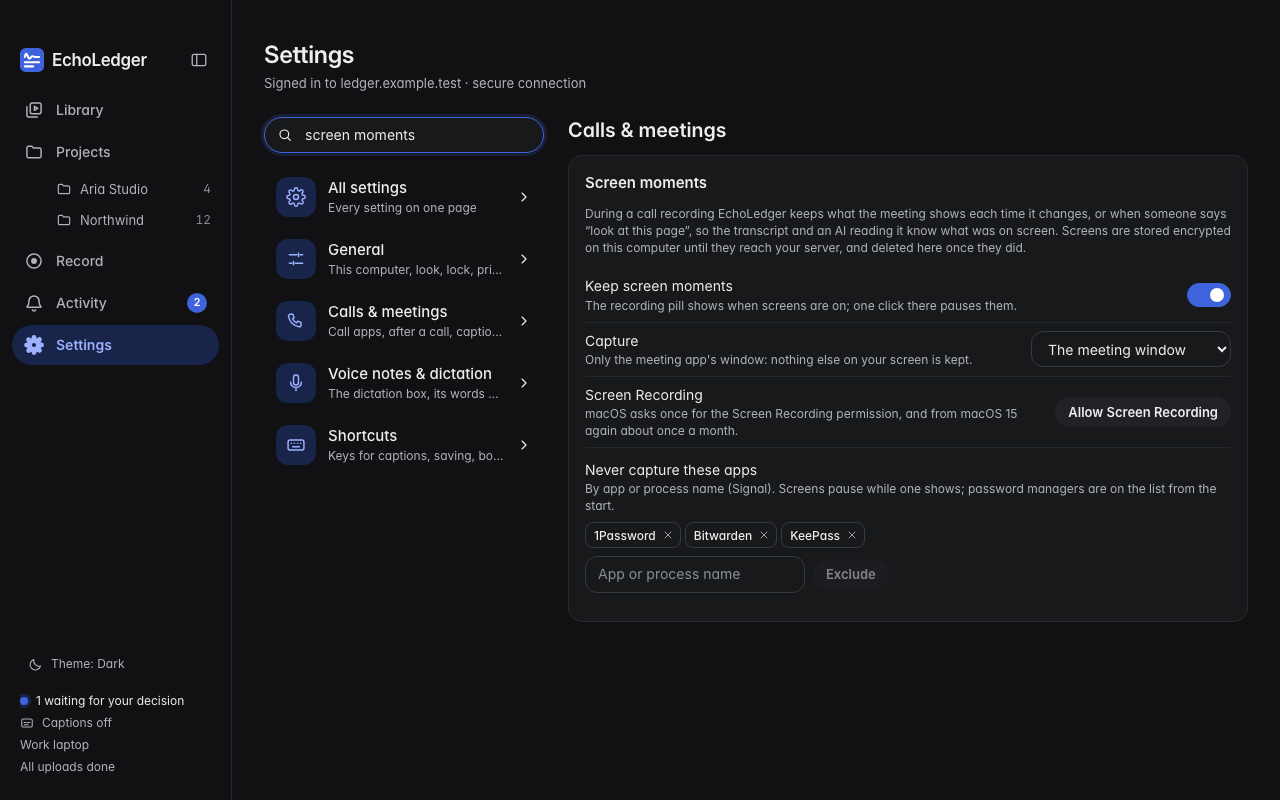
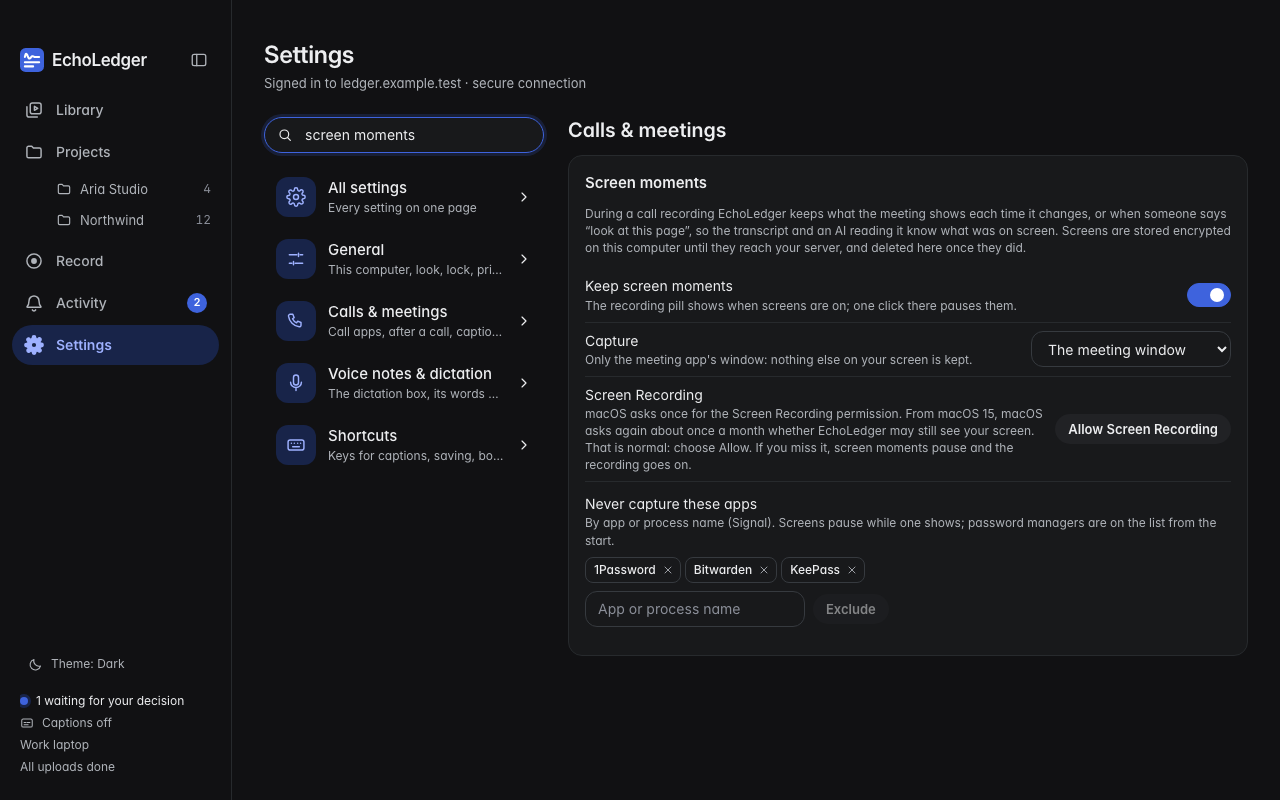
Mac first launch through Open Anyway, permissions forgotten after an update said once, what the Developer ID fixes, the Mac and Windows checks only real hardware can prove, and the new screens in light and dark

Changed region(s): [[0.4375, 0.5, 0.9375, 0.7812], [0.8438, 0.5, 0.9688, 0.5625]]

diff --git a/desktop/scripts/screens/main.tsx b/desktop/scripts/screens/main.tsx
@@ -3,7 +3,10 @@
 // request-files|record|record-bluetooth|record-viewer|activity|settings|settings-account|sign-in|controls|controls-bluetooth
 // &theme=light|dark` (v1.5: "-bluetooth" records from AirPods, "library-backup" opens the backup-engine call; projects,
 // shared, share, move and request-files open on the Projects page or the Library, where scripts/screenshots.mjs clicks its
-// way to the dialog; "sign-in" is a computer not signed in, "-viewer" a viewer's, "library-update" an update ready).
+// way to the dialog; "sign-in" is a computer not signed in, "-viewer" a viewer's, "library-update" an update ready. Phase 1B:
+// "-mac" is a Mac, "-windows10" a Windows without per-app capture, "onboarding-mac" the guided permissions,
+// "record-permission-mac" a permission off, "library-lost-mac" a permission macOS forgot, "settings-mac-check" the check's
+// results, "controls-permission" and "controls-device" what the pill says).
 import React from "react";
 import ReactDOM from "react-dom/client";
 import { clearMocks, mockIPC, mockWindows } from "@tauri-apps/api/mocks";
@@ -38,11 +41,15 @@ const audioUrl = silentWav();
 
 const empty = screen === "library-empty";
 const bluetooth = screen.endsWith("-bluetooth");
+const mac = screen.includes("-mac");
+const windows10 = screen.endsWith("-windows10");
+const onboarding = screen === "onboarding-mac";
+const NO_SYSTEM_AUDIO = { kind: "system_audio", sentence: "System audio is off for EchoLedger: a recording will have your voice, not the other side of the call." };
 // v1.5: projects, the Library's smart folders, sharing and moving open from the Library or the Projects page.
 const LIBRARY_SCREENS = ["shared", "share", "move"];
 const tab = screen.startsWith("library") || LIBRARY_SCREENS.includes(screen) ? "library"
   : screen.startsWith("client") || screen.startsWith("project") || screen === "request-files" ? "projects"
-    : screen.startsWith("record") ? "record" : screen.startsWith("settings") ? "settings" : screen;
+    : screen.startsWith("record") ? "record" : screen.startsWith("settings") ? "settings" : onboarding ? "library" : screen;
 // v1.5: the plan with limits next to the usage; a viewer on "-viewer".
 const plan = makePlan({
   name: "Team", workspace: "Acme team", role: screen.endsWith("-viewer") ? "viewer" : "owner",
@@ -56,13 +63,21 @@ type Args = Record<string, unknown>;
 let captions: { onmessage: (e: unknown) => void } | null = null;
 
 const commands: Record<string, (args: Args) => unknown> = {
-  app_status: () => makeStatus({ deviceName: "Work laptop", pendingDecisions: empty ? 0 : PENDING.length, captionsLive: controls, plan, paired: screen !== "sign-in" }),
+  app_status: () => makeStatus({
+    deviceName: "Work laptop",
+    pendingDecisions: empty ? 0 : PENDING.length,
+    captionsLive: controls,
+    plan,
+    paired: screen !== "sign-in",
+    platform: mac ? "macos" : "windows",
+    systemAudioNote: windows10 ? "This Windows version records all sound playing on this computer, not just the call" : null,
+  }),
   account_get: () => ACCOUNT,
   update_status: () =>
     screen === "library-update"
       ? { phase: "ready", current: "1.5.0", version: "1.5.1", notes: "Faster sign-in and the account page.", checkedAt: new Date().toISOString(), message: null, progress: null }
       : { phase: "up_to_date", current: "1.5.0", version: null, notes: null, checkedAt: new Date(Date.now() - 3 * 3_600_000).toISOString(), message: "You have the latest version.", progress: null },
-  get_settings: () => makeSettings({ deviceName: "Work laptop", consentAcknowledged: true }),
+  get_settings: () => makeSettings({ deviceName: "Work laptop", consentAcknowledged: true, onboardingDone: !onboarding }),
   main_view_get: () => JSON.stringify({ tab, recordingId: empty || tab !== "library" ? null : opened, scroll: {} }),
   lock_status: () => ({ enabled: false, locked: false, hasPin: false, osMethod: null, retryAfterSeconds: 0 }),
   library_list: () => (empty ? [] : ITEMS),
@@ -93,12 +108,50 @@ const commands: Record<string, (args: Args) => unknown> = {
     { id: "default", name: "Microphone (Realtek Audio)", isDefault: !bluetooth, bluetooth: false },
     ...(bluetooth ? [{ id: "airpods", name: "AirPods Pro", isDefault: true, bluetooth: true }] : []),
   ],
-  permissions_status: () => ({ microphone: "allowed", browserAutomation: false, platform: "windows" }),
+  permissions_status: () => (mac
+    ? {
+        microphone: onboarding ? "unknown" : "allowed",
+        systemAudio: screen === "record-permission-mac" || onboarding ? "denied" : "allowed",
+        screen: onboarding ? "denied" : "allowed",
+        browserAutomation: false,
+        platform: "macos",
+        missing: screen === "record-permission-mac" ? [NO_SYSTEM_AUDIO] : [],
+        lost: screen === "library-lost-mac" ? "macOS no longer lets EchoLedger use the microphone, which can happen after an update. Setting it up again takes a moment." : null,
+      }
+    : { microphone: "allowed", browserAutomation: false, platform: "windows", missing: [] }),
+  mac_check_last: () => screen === "settings-mac-check"
+    ? {
+        finishedAt: new Date().toISOString(),
+        stopped: null,
+        appVersion: "1.5.0",
+        osVersion: "15.1",
+        model: "Mac14,2",
+        sentAt: new Date(Date.now() - 120_000).toISOString(),
+        items: [
+          { key: "macos_version", title: "macOS version", state: "ok", detail: "macOS 15.1: call audio works on this version.", fix: null },
+          { key: "microphone_permission", title: "Microphone permission", state: "ok", detail: "Allowed.", fix: null },
+          { key: "system_audio_permission", title: "System audio permission", state: "off", detail: "Off. Without it a recording has your voice, not the other side of the call.", fix: { label: "Open System Settings", settings: "system_audio" } },
+          { key: "screen_permission", title: "Screen Recording permission", state: "ok", detail: "Allowed. macOS asks again about once a month: choose Allow to keep screen moments.", fix: null },
+          { key: "microphone_test", title: "Microphone test", state: "ok", detail: "Heard your microphone (loudest about -28 dB).", fix: null },
+          { key: "system_audio_test", title: "System audio test", state: "off", detail: "Not tested: system audio is off for EchoLedger.", fix: { label: "Open System Settings", settings: "system_audio" } },
+          { key: "meeting_apps", title: "Meeting apps", state: "ok", detail: "Installed: Zoom, Chrome, Safari. Not installed: Teams, WhatsApp, Edge, Arc. EchoLedger recognises all of them.", fix: null },
+          { key: "overlay_windows", title: "Captions and pill on screen", state: "ok", detail: "The captions and the pill are on screen, above other windows, in every Space and over full-screen meetings.", fix: null },
+          { key: "screen_capture_test", title: "Screen moment test", state: "ok", detail: "One frame captured and thrown away. Nothing was stored.", fix: null },
+        ],
+      }
+    : null,
   security_overview: () => ({ devices: [{ id: "d1", name: "Work laptop", platform: "windows", app_version: "1.3.0", last_seen_at: new Date().toISOString(), paired_at: null, current: true }, { id: "d2", name: "Pixel 9", platform: "android", app_version: "1.3.0", last_seen_at: new Date().toISOString(), paired_at: null, current: false }], events: [] }),
   storage_info: () => ({ recordings_bytes: 812_000_000, recordings_count: 42, disk_free_bytes: 80_123_456_789, disk_total_bytes: 107_374_182_400, retention_days: 30 }),
   dictation_history: () => [],
   marker_tags: () => ["Budget", "Decision", "Follow up"],
-  recording_state: () => makeRecordingState({ elapsedMs: 134_000, sourceApp: "whatsapp", language: "ur", bluetoothMic: bluetooth }),
+  recording_state: () => makeRecordingState({
+    elapsedMs: 134_000,
+    sourceApp: "whatsapp",
+    language: "ur",
+    bluetoothMic: bluetooth,
+    missing: screen === "controls-permission" ? [NO_SYSTEM_AUDIO] as never : [],
+    deviceNote: screen === "controls-device" ? { text: "Microphone changed to AirPods Pro. Still recording.", warning: false } : null,
+  }),
   // The after-call window: "Saved · … · Undo" over the Ask-me chip (its line at 6 of 10 s); both stay for the picture.
   after_call_state: () =>
     makeAfterCallState({

diff --git a/desktop/src/views/main/MacCheck.tsx b/desktop/src/views/main/MacCheck.tsx
@@ -90,7 +90,7 @@ export function MacCheckCard({ status }: { status: AppStatus }) {
   if (!running && (status.recording || status.dictationActive)) {
     return (
       <div className="card mac-check" data-testid="mac-check">
-        <b>Mac check</b>
+        <b>Help &amp; diagnostics</b>
         <p className="small" data-testid="mac-check-recording">Finish the current recording to run the Mac check.</p>
       </div>
     );
@@ -100,8 +100,8 @@ export function MacCheckCard({ status }: { status: AppStatus }) {
   const items = report?.items ?? progress?.done ?? [];
   return (
     <div className="card mac-check" data-testid="mac-check">
-      <b>Mac check</b>
-      <p className="small muted">Checks macOS, the permissions, the microphone, the other side of a call, your meeting apps, the captions and screen moments, one at a time. It takes about 15 seconds, says something back, and plays one soft tone.</p>
+      <b>Help &amp; diagnostics</b>
+      <p className="small muted">The Mac check looks at macOS, the permissions, the microphone, the other side of a call, your meeting apps, the captions and screen moments, one at a time. It takes about 15 seconds: say something when it asks, and it plays one soft tone.</p>
       <div className="card-actions"><button type="button" className="btn primary" disabled={running} onClick={() => void run()}>{running ? "Checking…" : report ? "Run Mac check again" : "Run Mac check"}</button></div>
       {running && progress && <p className="small" role="status" data-testid="mac-check-progress">{progress.index + 1} of {progress.total}: {progress.line}</p>}
       {report?.stopped && <p className="small warning-text" role="status">{report.stopped}</p>}

diff --git a/desktop/src/lib/controls.ts b/desktop/src/lib/controls.ts
@@ -102,8 +102,8 @@ export function askSeconds(ask: AskPayload): number {
 /** What the pill and the captions say when the system does not let a recording use something (one short line). */
 export function missingShort(missing: MissingPermission[] | undefined): string | null {
   const kinds = (missing ?? []).map((m) => m.kind);
-  if (kinds.includes("microphone") && kinds.includes("system_audio")) return "Nothing is being recorded: no permission.";
-  if (kinds.includes("microphone")) return "No microphone permission: recording the other side only.";
-  if (kinds.includes("system_audio")) return "No system audio permission: recording your voice only.";
+  if (kinds.includes("microphone") && kinds.includes("system_audio")) return "Nothing is being recorded: no permission";
+  if (kinds.includes("microphone")) return "No microphone: recording the other side";
+  if (kinds.includes("system_audio")) return "No system audio: recording your voice only";
   return null;
 }

diff --git a/desktop/src/views/main/Permissions.tsx b/desktop/src/views/main/Permissions.tsx
@@ -99,7 +99,7 @@ export function PermissionStep({ kind, permissions, onChange, compact = false }:
       </div>
       <div className="row permission-actions">
         {access === "unknown" && <button type="button" className="btn" disabled={asking} onClick={() => void allow()}>{asking ? "Asking…" : "Allow"}</button>}
-        {access !== "allowed" && <button type="button" className="btn ghost" onClick={() => void api.openPrivacySettings(kind).catch(() => undefined)}>Open System Settings</button>}
+        {access !== "allowed" && <button type="button" className={`btn ${access === "unknown" ? "ghost" : ""}`} onClick={() => void api.openPrivacySettings(kind).catch(() => undefined)}>Open System Settings</button>}
       </div>
       {access !== "allowed" && <p className="small muted">{text.where}</p>}
     </div>

diff --git a/desktop/src/views/overlay/OverlayApp.test.tsx b/desktop/src/views/overlay/OverlayApp.test.tsx
@@ -588,7 +588,7 @@ describe("caption style (B4)", () => {
     await emitEvent("overlay:visibility", true);
     expect(screen.queryByTestId("caption-missing")).not.toBeInTheDocument();
     await emitEvent("recording:state", { active: true, missing: [{ kind: "microphone", sentence: "x" }] });
-    expect(screen.getByTestId("caption-missing")).toHaveTextContent("No microphone permission: recording the other side only.");
+    expect(screen.getByTestId("caption-missing")).toHaveTextContent("No microphone: recording the other side");
     await emitEvent("recording:state", { active: false, missing: [] });
     expect(screen.queryByTestId("caption-missing")).not.toBeInTheDocument();
   });

diff --git a/desktop/src/views/pill/PillApp.test.tsx b/desktop/src/views/pill/PillApp.test.tsx
@@ -527,7 +527,7 @@ describe("Screens chip (v1.5)", () => {
       await renderPill(makeRecordingState({ missing: noSystem }));
       await emitEvent("pill:visibility", true);
       const warning = screen.getByTestId("missing-permission");
-      expect(warning).toHaveTextContent("No system audio permission: recording your voice only.");
+      expect(warning).toHaveTextContent("No system audio: recording your voice only");
       expect(warning).toHaveAttribute("title", noSystem[0].sentence);
       fireEvent.click(within(warning).getByRole("button", { name: "Dismiss warning" }));
       expect(screen.queryByTestId("missing-permission")).not.toBeInTheDocument();

diff --git a/desktop/src/lib/controls.test.ts b/desktop/src/lib/controls.test.ts
@@ -144,7 +144,7 @@ describe("missingShort", () => {
     expect(missingShort(undefined)).toBeNull();
     expect(missingShort([])).toBeNull();
     expect(missingShort([{ kind: "system_audio", sentence: "" }])).toMatch(/your voice only/);
-    expect(missingShort([{ kind: "microphone", sentence: "" }])).toMatch(/other side only/);
+    expect(missingShort([{ kind: "microphone", sentence: "" }])).toMatch(/recording the other side/);
     expect(missingShort([{ kind: "microphone", sentence: "" }, { kind: "system_audio", sentence: "" }])).toMatch(/Nothing is being recorded/);
     expect(missingShort([{ kind: "screen", sentence: "" }])).toBeNull();
   });

diff --git a/desktop/src/views/main/ScreenSettings.test.tsx b/desktop/src/views/main/ScreenSettings.test.tsx
@@ -117,7 +117,7 @@ describe("Settings → Screen moments", () => {
     respond("screens_permission", true);
     fireEvent.click(within(card()).getByRole("button", { name: "Allow Screen Recording" }));
     await flushAsync();
-    expect(within(card()).getByTestId("screens-permission-note")).toHaveTextContent("Allowed. macOS 15 and later ask again about once a month");
+    expect(within(card()).getByTestId("screens-permission-note")).toHaveTextContent("From macOS 15, macOS asks again about once a month");
     expect(within(card()).queryByRole("button", { name: "Allow Screen Recording" })).not.toBeInTheDocument();
   });
 

diff --git a/desktop/src-tauri/src/permissions/macos.rs b/desktop/src-tauri/src/permissions/macos.rs
@@ -1,7 +1,8 @@
 //! What macOS allows, read without showing anything. The microphone through AVFoundation; Screen Recording through
 //! CoreGraphics (`screens::platform::macos`). System audio has no public way to ask (`NSAudioCaptureUsageDescription`
-//! only names the prompt), so it reads the same private TCC call Apple's own sample and AudioCap use, looked up at run
-//! time: if it ever goes, the answer is "unknown" and the recording's far-side warning still says when nothing is heard.
+//! only names the prompt), and CoreGraphics cannot tell "not asked yet" from "told no", so both read the private TCC call
+//! that AudioCap uses, looked up at run time: if it ever goes, the answer is "unknown" and the recording's far-side
+//! warning and the screens chip still say when something is missing.
 
 use std::ffi::{CStr, c_char, c_int, c_void};
 use std::sync::OnceLock;
@@ -72,19 +73,30 @@ fn preflight() -> Option<Preflight> {
     address.map(|a| unsafe { std::mem::transmute::<usize, Preflight>(a) })
 }
 
-fn system_audio() -> Access {
+fn tcc(service: &str) -> Access {
     let Some(call) = preflight() else { return Access::Unknown };
-    let service = CFString::from_str("kTCCServiceAudioCapture");
+    let service = CFString::from_str(service);
     let service: &CFString = &service;
     // SAFETY: the service name lives for the call; no options; this only reads the answer, it never prompts.
     access_of_tcc_answer(unsafe { call(service, std::ptr::null()) })
 }
 
+/// Screen Recording: CoreGraphics' yes is final; its no is told apart by TCC.
+pub fn access_of_screen(preflight: bool, tcc: Access) -> Access {
+    if preflight {
+        Access::Allowed
+    } else if tcc == Access::Denied {
+        Access::Denied
+    } else {
+        Access::Unknown
+    }
+}
+
 pub fn read() -> Permissions {
     Permissions {
         microphone: microphone(),
-        system_audio: system_audio(),
-        screen: if crate::screens::platform::macos::permission() { Access::Allowed } else { Access::Denied },
+        system_audio: tcc("kTCCServiceAudioCapture"),
+        screen: access_of_screen(crate::screens::platform::macos::permission(), tcc("kTCCServiceScreenCapture")),
     }
 }
 
@@ -125,5 +137,14 @@ mod tests {
         assert_eq!(access_of_tcc_answer(0), Access::Allowed);
         assert_eq!(access_of_tcc_answer(1), Access::Denied);
         assert_eq!(access_of_tcc_answer(2), Access::Unknown);
+    }
+
+    #[test]
+    fn screen_recording_not_asked_yet_is_not_told_no() {
+        assert_eq!(access_of_screen(true, Access::Unknown), Access::Allowed);
+        assert_eq!(access_of_screen(true, Access::Denied), Access::Allowed, "CoreGraphics' yes is what the capture uses");
+        assert_eq!(access_of_screen(false, Access::Denied), Access::Denied);
+        assert_eq!(access_of_screen(false, Access::Unknown), Access::Unknown, "so Allow can put EchoLedger on System Settings' list");
+        assert_eq!(access_of_screen(false, Access::Allowed), Access::Unknown, "TCC says yes, the capture says no: ask again");
     }
 }

diff --git a/desktop/src-tauri/src/actions.rs b/desktop/src-tauri/src/actions.rs
@@ -964,6 +964,7 @@ fn start_ticker(app: &AppHandle) {
     }
     let app = app.clone();
     tauri::async_runtime::spawn(async move {
+        let mut shown_note = None;
         loop {
             tokio::time::sleep(Duration::from_secs(1)).await;
             let state = app.state::<crate::AppState>();
@@ -973,6 +974,12 @@ fn start_ticker(app: &AppHandle) {
                 break;
             }
             take_device_notices(&app);
+            // The Record page hears of a device note when it comes and when it goes (news lasts a few seconds).
+            let note = state.device_status.lock().unwrap_or_else(|p| p.into_inner()).note(Instant::now());
+            if note != shown_note {
+                shown_note = note;
+                emit_status(&app);
+            }
             emit_recording_state(&app);
         }
     });
@@ -998,7 +1005,6 @@ fn take_device_notices(app: &AppHandle) {
     if new_mic && let Some(info) = state.capture.info() {
         check_bluetooth_mic(app, &info);
     }
-    emit_status(app);
 }
 
 /// Appends an item to `uploads.json` and wakes the upload worker. An import of a file that is already queued (same

diff --git a/desktop/src-tauri/src/permissions.rs b/desktop/src-tauri/src/permissions.rs
@@ -84,6 +84,7 @@ const NO_SYSTEM_AUDIO: &str = "System audio is off for EchoLedger: a recording w
 const NO_SCREEN: &str = "Screen Recording is off for EchoLedger: recordings will have their sound but no screen moments.";
 const NOTHING_TO_RECORD: &str = "The microphone and system audio are both off for EchoLedger, so there is nothing to record. Allow them in System Settings.";
 const NO_NOTE_MICROPHONE: &str = "The microphone is off for EchoLedger, so a voice note has nothing to record. Allow it in System Settings.";
+pub const NO_DICTATION: &str = "The microphone is off for EchoLedger, so dictation cannot hear you. Allow it in System Settings.";
 const NO_NOTE_SYSTEM_AUDIO: &str = "System audio is off for EchoLedger, so sound playing on this computer cannot be captured. Allow it in System Settings.";
 
 fn missing(kind: Kind, sentence: &str) -> Missing {

diff --git a/desktop/src-tauri/src/dictation/mod.rs b/desktop/src-tauri/src/dictation/mod.rs
@@ -44,6 +44,10 @@ pub async fn start(app: &AppHandle) -> AppResult<()> {
     if is_active(app) {
         return Ok(());
     }
+    // Dictating without the microphone would silently type nothing (Phase 1B).
+    if state.permissions_now().microphone == crate::permissions::Access::Denied {
+        return Err(crate::error::AppError::msg(crate::permissions::NO_DICTATION));
+    }
     state.dictation_text.lock().unwrap().clear();
     state.dictation_stop_requested.store(false, Ordering::SeqCst);
     // Before the stream opens, so the box is built while the key is still down (C9: it is built on demand).
